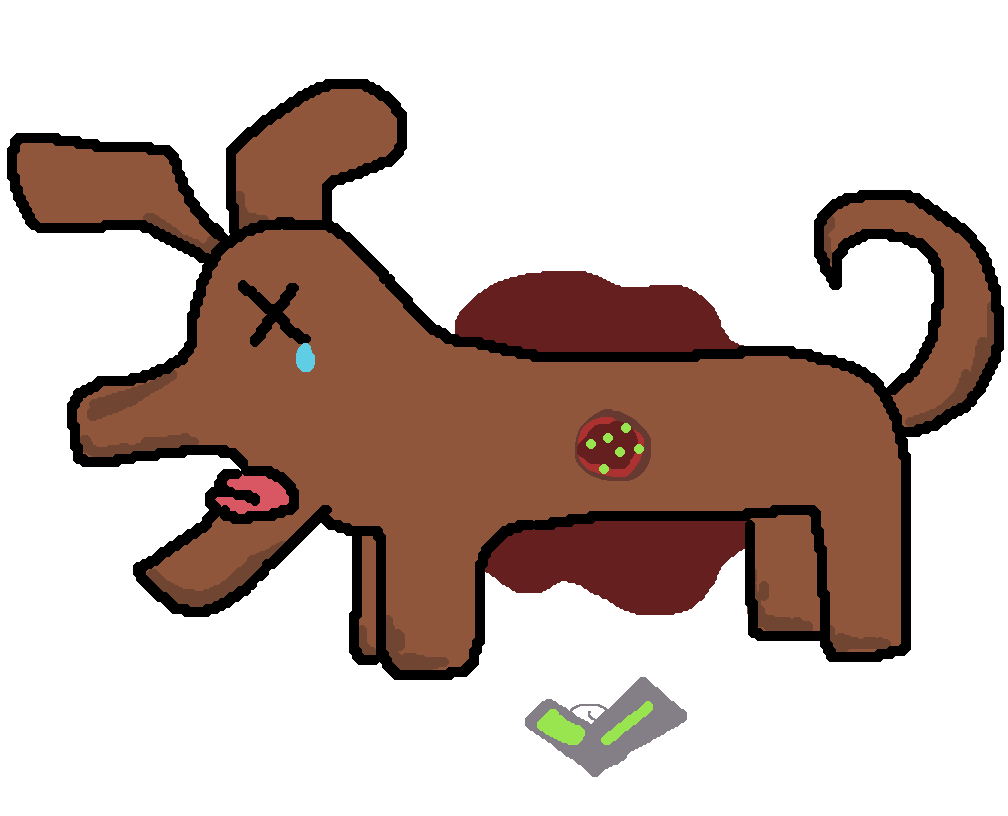
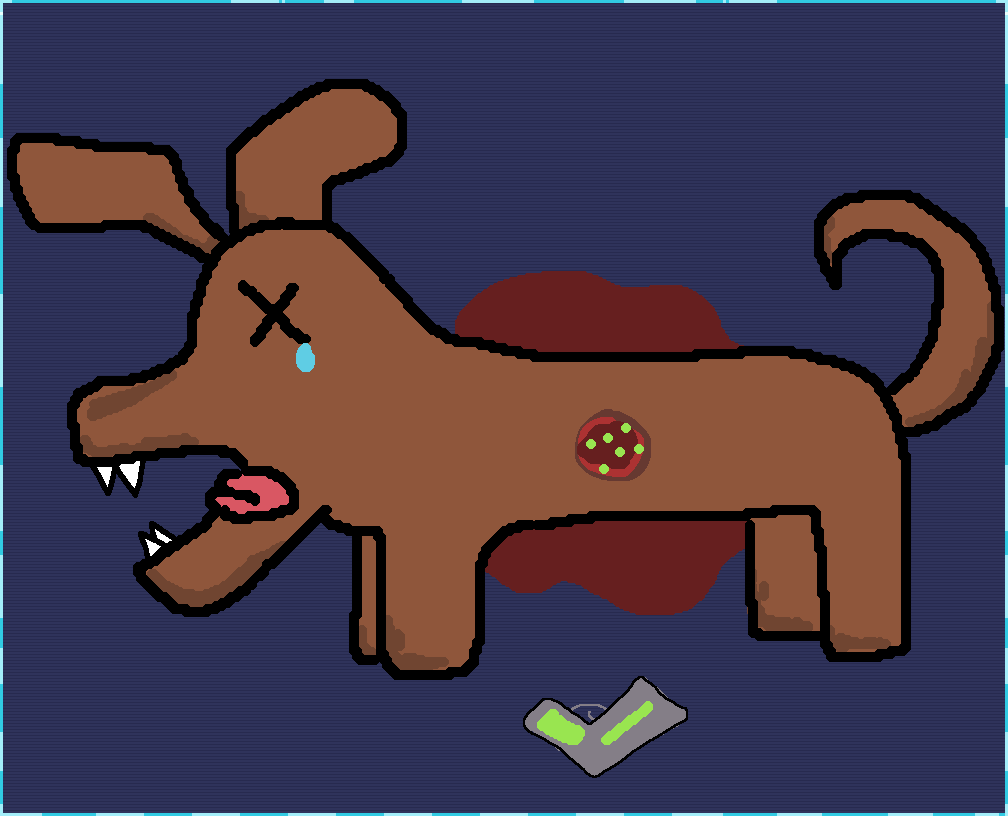
changed lore images + enemy world

diff --git a/EnemyWorld.java b/EnemyWorld.java
@@ -57,7 +57,7 @@ public class EnemyWorld extends SuperWorld
         Presser nextButton = new Presser(goBuilderWorld, "ready.png", "ready.png");
         addObject(nextButton, 800, 700);
         
-        enemyBg = new GreenfootImage("enemyWaveText.png");
+        enemyBg = new GreenfootImage("enemyBg.png");
         enemyBg.scale(enemyBg.getWidth()*Constants.IMAGE_SCALING, enemyBg.getHeight()*Constants.IMAGE_SCALING);
         
         displayEnemies(getStages().get(0), 200);
